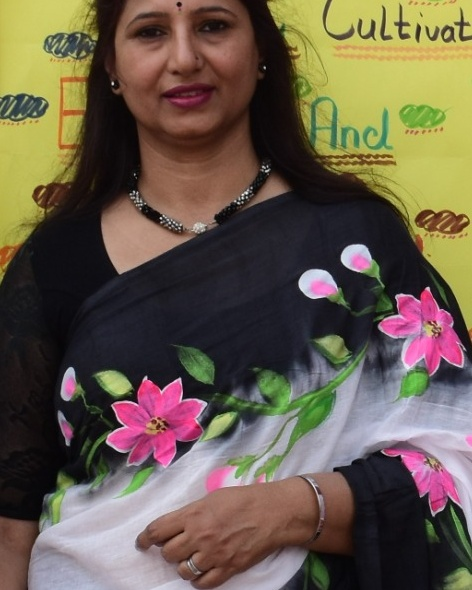
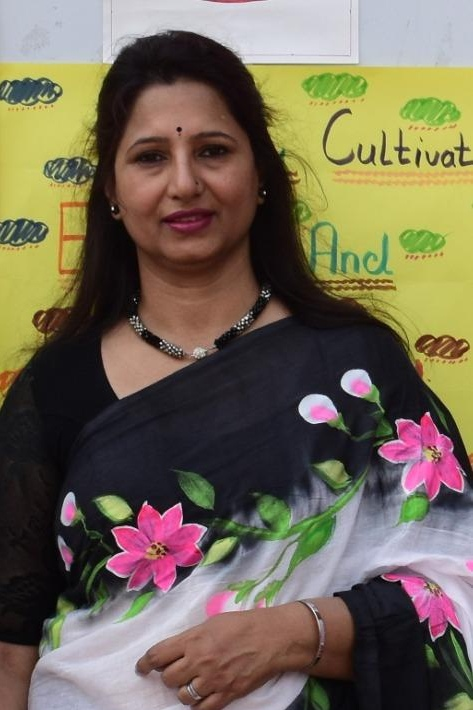
fix(candid): align candid portrait with full head, eyes, smile and floral saree in 2:3 frame, eliminate cut-off

diff --git a/index.html b/index.html
@@ -243,7 +243,7 @@
                         <img id="person-candid-img" 
                              src="assets/images/varsha_phukane_candid.jpg" 
                              alt="Varsha Phukane — Principal" 
-                             class="w-full aspect-[4/5] object-cover object-center">
+                             class="w-full aspect-[2/3] object-cover object-top">
                         <div class="p-3.5 sm:p-4 bg-white/95 border-t border-slate-200">
                             <p id="person-candid-caption" class="text-xs text-slate-600 font-medium italic text-center">
                                 Varsha Phukane — Principal & Educational Leader
